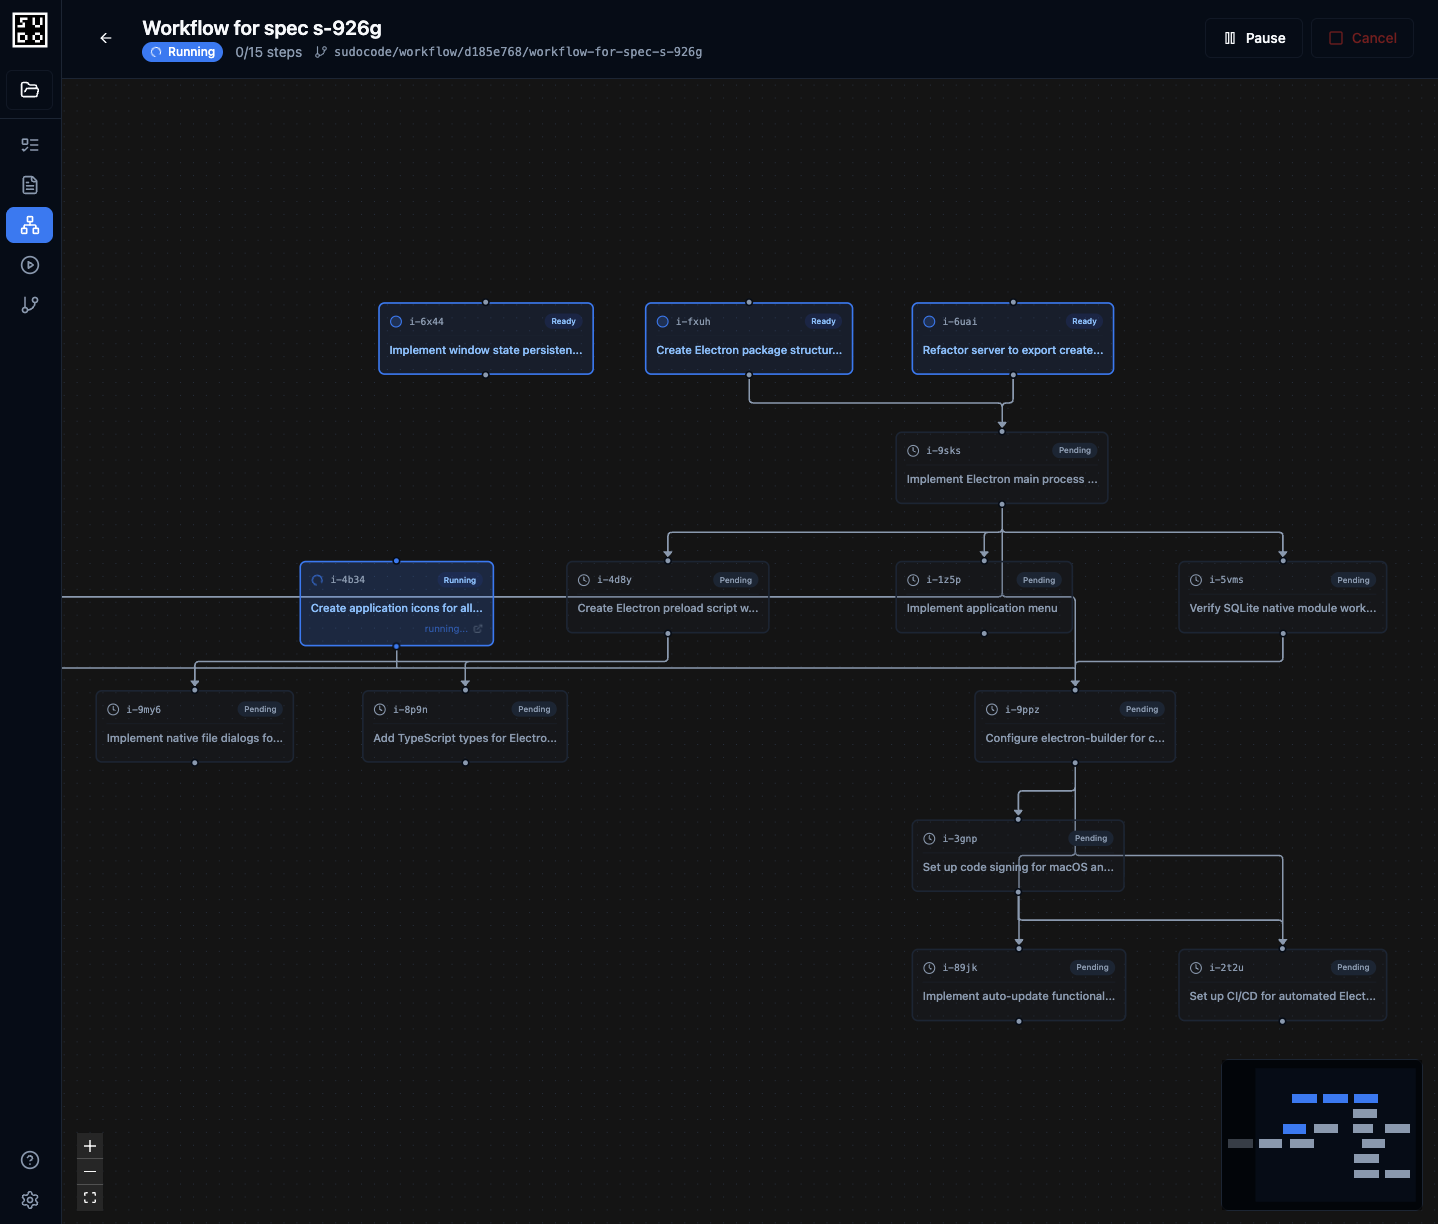
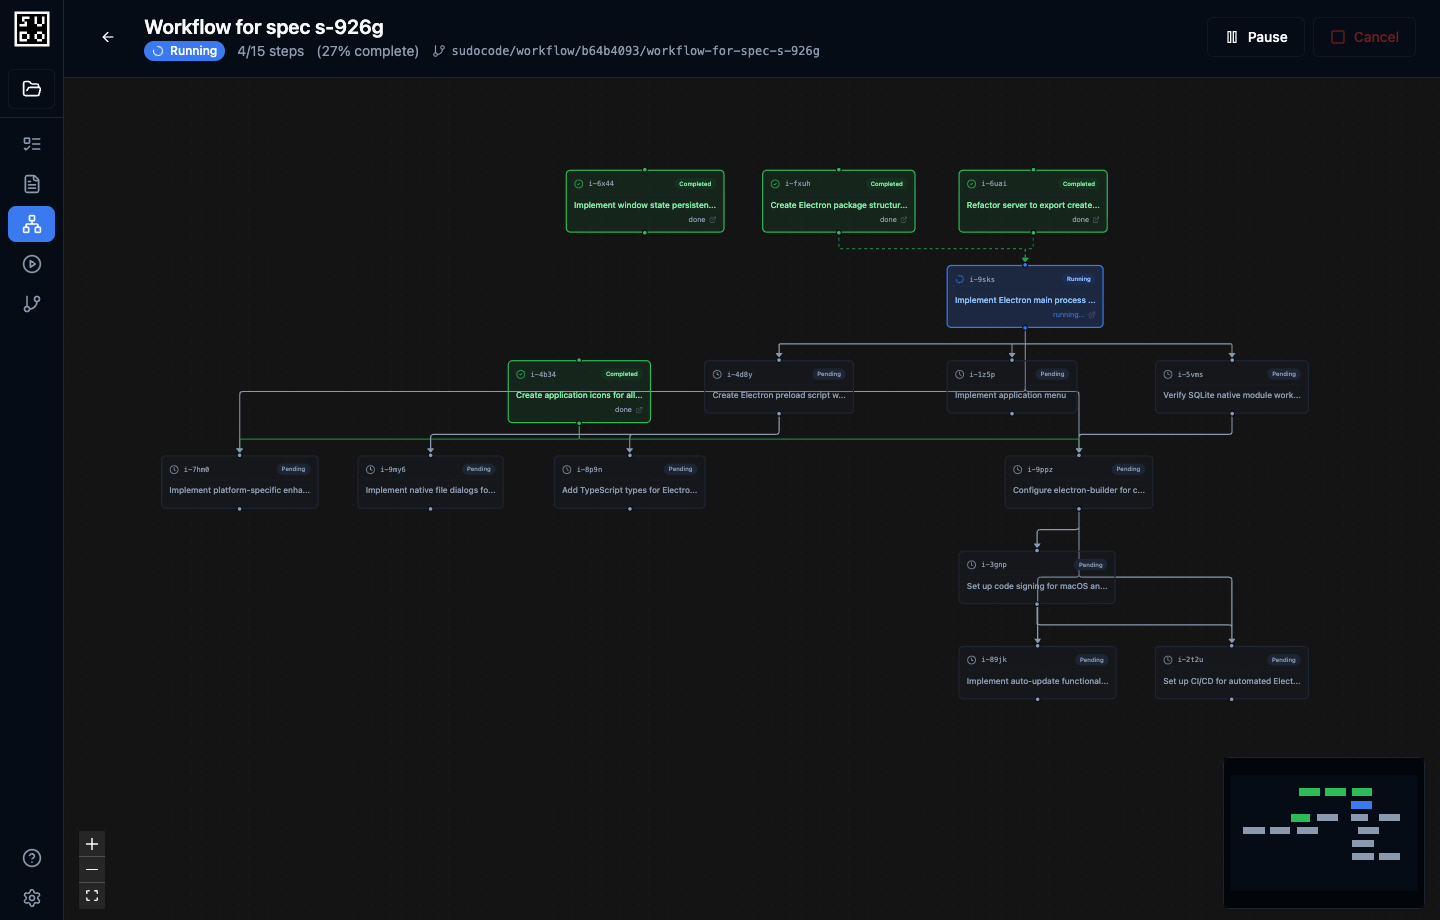
fix bug with workflows not rendering updates properly

diff --git a/server/src/services/workflow-broadcast-service.ts b/server/src/services/workflow-broadcast-service.ts
@@ -75,12 +75,14 @@ export class WorkflowBroadcastService {
 
       case "workflow_paused":
         broadcastWorkflowUpdate(projectId, event.workflowId, "paused", {
+          workflowId: event.workflowId,
           timestamp: event.timestamp,
         });
         break;
 
       case "workflow_resumed":
         broadcastWorkflowUpdate(projectId, event.workflowId, "resumed", {
+          workflowId: event.workflowId,
           timestamp: event.timestamp,
         });
         break;
@@ -94,6 +96,7 @@ export class WorkflowBroadcastService {
 
       case "workflow_failed":
         broadcastWorkflowUpdate(projectId, event.workflowId, "failed", {
+          workflowId: event.workflowId,
           error: event.error,
           timestamp: event.timestamp,
         });
@@ -101,6 +104,7 @@ export class WorkflowBroadcastService {
 
       case "workflow_cancelled":
         broadcastWorkflowUpdate(projectId, event.workflowId, "cancelled", {
+          workflowId: event.workflowId,
           timestamp: event.timestamp,
         });
         break;
@@ -108,6 +112,7 @@ export class WorkflowBroadcastService {
       // Step events
       case "step_started":
         broadcastWorkflowStepUpdate(projectId, event.workflowId, "started", {
+          workflowId: event.workflowId,
           step: event.step,
           timestamp: event.timestamp,
         });
@@ -115,6 +120,7 @@ export class WorkflowBroadcastService {
 
       case "step_completed":
         broadcastWorkflowStepUpdate(projectId, event.workflowId, "completed", {
+          workflowId: event.workflowId,
           step: event.step,
           executionId: event.executionId,
           timestamp: event.timestamp,
@@ -123,6 +129,7 @@ export class WorkflowBroadcastService {
 
       case "step_failed":
         broadcastWorkflowStepUpdate(projectId, event.workflowId, "failed", {
+          workflowId: event.workflowId,
           step: event.step,
           error: event.error,
           timestamp: event.timestamp,
@@ -131,6 +138,7 @@ export class WorkflowBroadcastService {
 
       case "step_skipped":
         broadcastWorkflowStepUpdate(projectId, event.workflowId, "skipped", {
+          workflowId: event.workflowId,
           step: event.step,
           reason: event.reason,
           timestamp: event.timestamp,
@@ -149,6 +157,7 @@ export class WorkflowBroadcastService {
           event.workflowId,
           "escalation_requested",
           {
+            workflowId: event.workflowId,
             escalationId: event.escalationId,
             message: event.message,
             options: event.options,
@@ -164,6 +173,7 @@ export class WorkflowBroadcastService {
           event.workflowId,
           "escalation_resolved",
           {
+            workflowId: event.workflowId,
             escalationId: event.escalationId,
             action: event.action,
             message: event.message,

diff --git a/frontend/src/hooks/useWorkflows.ts b/frontend/src/hooks/useWorkflows.ts
@@ -146,7 +146,7 @@ export function useWorkflows(params?: ListWorkflowsParams) {
 
 export function useWorkflow(id: string | undefined) {
   const queryClient = useQueryClient()
-  const { addMessageHandler, removeMessageHandler } = useWebSocketContext()
+  const { connected, subscribe, addMessageHandler, removeMessageHandler } = useWebSocketContext()
 
   // Fetch the workflow
   const workflowQuery = useQuery({
@@ -185,8 +185,14 @@ export function useWorkflow(id: string | undefined) {
 
     const handlerId = `workflow-detail-${id}`
     addMessageHandler(handlerId, handleMessage)
+
+    // Subscribe to workflow updates (needed for WebSocket server to send messages)
+    if (connected) {
+      subscribe('workflow')
+    }
+
     return () => removeMessageHandler(handlerId)
-  }, [id, queryClient, addMessageHandler, removeMessageHandler])
+  }, [id, connected, subscribe, queryClient, addMessageHandler, removeMessageHandler])
 
   // Get all issues (we'll filter to the ones we need)
   // Using the cached issues list to avoid N+1 queries
